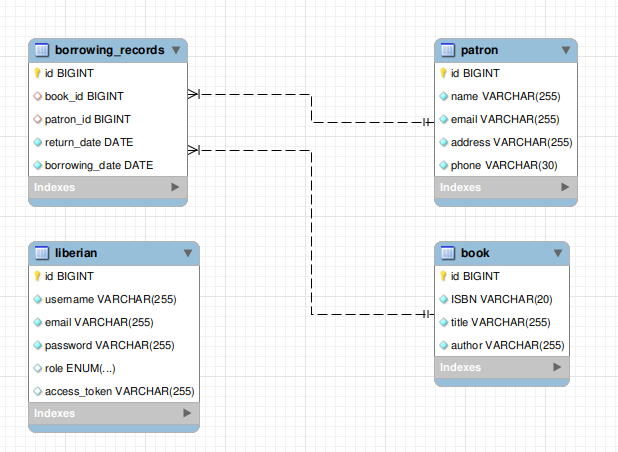
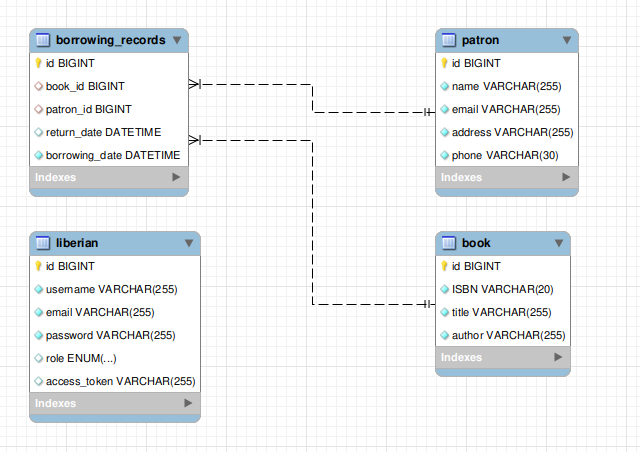
add Borrowing Endpoints and readme file

diff --git a/src/main/java/com/maids/cc/Library/Management/System/controller/BorrowingRecordsController.java b/src/main/java/com/maids/cc/Library/Management/System/controller/BorrowingRecordsController.java
@@ -1,25 +1,21 @@
 package com.maids.cc.Library.Management.System.controller;
 
 import com.maids.cc.Library.Management.System.dto.response.MessageResponseDto;
-import com.maids.cc.Library.Management.System.entities.BorrowingRecord;
-import com.maids.cc.Library.Management.System.repository.BorrowingRecordRepository;
 import com.maids.cc.Library.Management.System.service.BorrowingRecordService;
 import lombok.AllArgsConstructor;
 import org.springframework.http.HttpStatus;
 import org.springframework.http.ResponseEntity;
-import org.springframework.web.bind.annotation.PathVariable;
-import org.springframework.web.bind.annotation.PostMapping;
-import org.springframework.web.bind.annotation.RequestMapping;
-import org.springframework.web.bind.annotation.RestController;
+import org.springframework.web.bind.annotation.*;
+
 
 @RestController
 @AllArgsConstructor
-@RequestMapping("/api/borrow")
+@RequestMapping("/api")
 public class BorrowingRecordsController {
 
     private BorrowingRecordService borrowingRecordService;
 
-    @PostMapping("/{bookId}/patron/{patronId}")
+    @PostMapping("/borrow/{bookId}/patron/{patronId}")
     public ResponseEntity<MessageResponseDto> borrowBook(@PathVariable("bookId") Long bookId ,
                                                          @PathVariable("patronId") Long patronId) {
 
@@ -34,6 +30,20 @@ public class BorrowingRecordsController {
                 );
     }
 
-    //public void returnBook() {}
+    @PutMapping("/return/{bookId}/patron/{patronId}")
+    public ResponseEntity<MessageResponseDto> returnBook(@PathVariable("bookId") Long bookId ,
+                           @PathVariable("patronId") Long patronId) {
+
+
+       borrowingRecordService.returnBook(bookId,patronId);
+
+        return ResponseEntity
+                .status(HttpStatus.OK)
+                .body(MessageResponseDto.builder()
+                        .status(HttpStatus.OK.value())
+                        .message("The book with ID " + bookId + " has been successfully returned by the patron with ID " + patronId + ".")
+                        .build()
+                );
+    }
 
 }

diff --git a/src/main/java/com/maids/cc/Library/Management/System/service/BorrowingRecordService.java b/src/main/java/com/maids/cc/Library/Management/System/service/BorrowingRecordService.java
@@ -35,4 +35,18 @@ public class BorrowingRecordService {
 
         borrowingRecordRepository.save(borrowingRecord);
     }
+
+    @Transactional
+    public void returnBook(Long bookId, Long patronId) {
+
+        BorrowingRecord borrowingRecord = borrowingRecordRepository.findByBookIdAndPatronId(bookId, patronId)
+                .orElseThrow(
+                        () -> new BadRequestException("This patron with id "+patronId+" has not borrowed this book with id "+bookId)
+                );
+
+        borrowingRecord.setReturnDate(LocalDateTime.now());
+
+        borrowingRecordRepository.save(borrowingRecord);
+    }
+
 }

diff --git a/src/main/java/com/maids/cc/Library/Management/System/repository/BorrowingRecordRepository.java b/src/main/java/com/maids/cc/Library/Management/System/repository/BorrowingRecordRepository.java
@@ -13,4 +13,5 @@ public interface BorrowingRecordRepository extends JpaRepository<BorrowingRecord
      boolean existsByBook(Book book);
      boolean existsByPatron(Patron patron);
      boolean existsByPatronAndBook(Patron patron,Book book);
+     Optional<BorrowingRecord> findByBookIdAndPatronId(Long bookId,Long patronId);
 }

diff --git a/README.md b/README.md
@@ -117,8 +117,8 @@ The Library Management System API is designed to streamline the operations of a 
   - `DELETE /api/patrons/{id}`
 
 - **Borrowing endpoints**:
-
-  
+  - `POST /api/borrow/{bookId}/patron/{patronId}`
+  - `PUT /api/return/{bookId}/patron/{patronId}`
 
   
 
